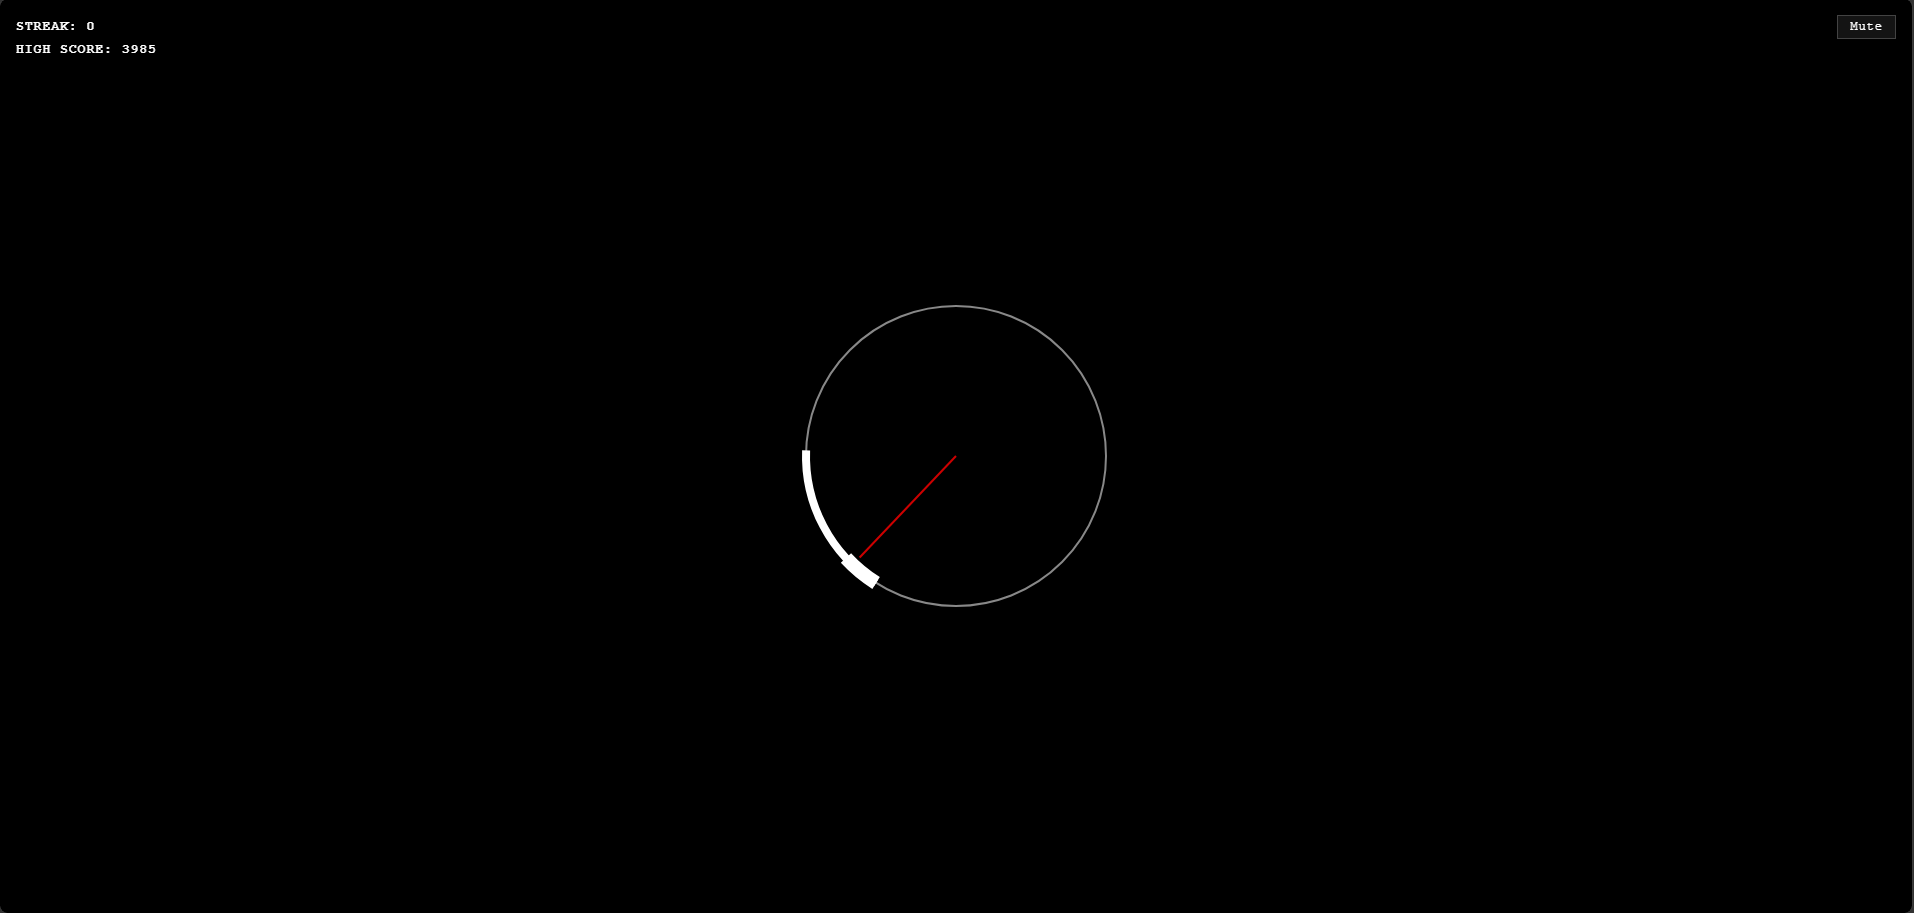
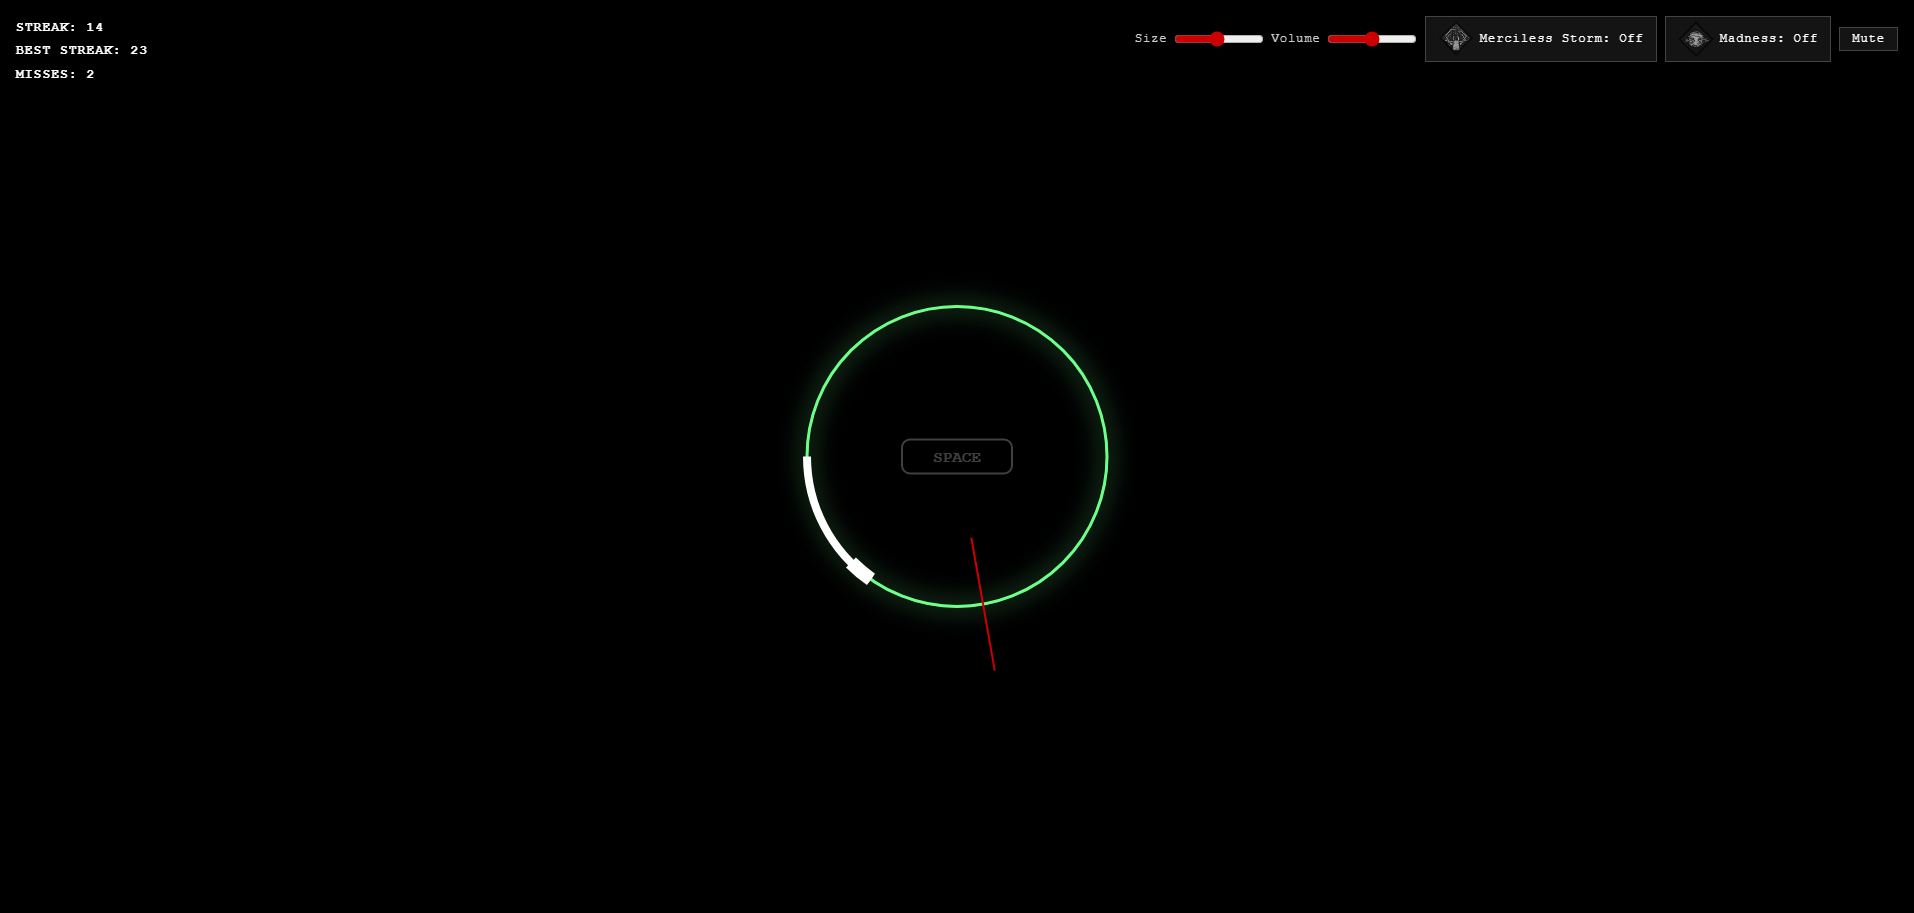
docs: shorten README, drop emojis, update screenshot

diff --git a/README.md b/README.md
@@ -1,142 +1,51 @@
 # DBD Skill Check Game
 
-A fast-paced, DBD-inspired skill check rhythm game built with vanilla HTML, CSS, and JavaScript. Test your reflexes by clicking at the perfect moment when the pointer aligns with the target zone!
+A Dead by Daylight-style skill check game built with vanilla HTML, CSS, and JavaScript. Hit `SPACE` when the pointer is inside the target zone.
 
 ![Game Screenshot](assets/screenshot.png)
 
-## 🎮 How to Play
+## How to Play
 
-1. **Press `SPACE`** to start a new game
-2. Wait for the **pointer** (red line) to rotate and enter the **white arc**
-3. Click `SPACE` when the pointer is inside the target zone:
-   - **Success Zone** (thicker arc): Great hit! +250 points
-   - **Good Zone** (standard arc): Good hit! +100 points
-4. Build your combo streak for multipliers (up to 5x)
-5. A miss resets your streak and is counted, but the game keeps going. If you miss 5 times in a row (you've probably walked away), the game pauses until you press `SPACE`
+1. Press `SPACE` to start.
+2. The red pointer starts at 12 o'clock and rotates clockwise. Press `SPACE` when it is inside the white arc.
+   - Great zone (the thick notch at the leading edge): +250 points
+   - Good zone (the rest of the arc): +100 points
+3. Consecutive hits build a streak and a score multiplier (up to 5x), and every 5 great hits the pointer speeds up.
+4. A miss resets your streak, but the game keeps going. After 5 misses in a row the game pauses until you press `SPACE`.
 
-### Controls
-| Key | Action |
-|-----|--------|
-| `SPACE` | Start the game, perform a skill check, or resume when paused |
-| `Size` slider | Make the circle smaller or bigger (remembered in your browser) |
-| `Volume` slider | Set the sound volume (remembered in your browser) |
-| Click `Merciless Storm` | Toggle Merciless Storm mode (off by default) |
-| Click `Madness` | Toggle Madness mode (off by default) |
-| Click `Mute` | Mute/Unmute audio |
+The ring flashes red, green, or glowing green after each check to show a miss, good, or great.
 
-### Modes (top-right toggles, remembered in your browser)
+## Controls
+
+| Control | Action |
+|---------|--------|
+| `SPACE` | Start, skill check, or resume when paused |
+| Size slider | Make the circle smaller or bigger |
+| Volume slider / Mute | Adjust or silence the sound |
+| Merciless Storm | Toggle the killer perk mode |
+| Madness | Toggle the Doctor mode |
+
+Slider and toggle settings are remembered in your browser, as is your best streak.
+
+## Modes
 
 Both are off by default and can be combined.
 
-- **Merciless Storm** (killer perk): the arc can appear anywhere, even right under the pointer, as a smaller hollow curved bar. Any hit inside it counts as a good hit.
-- **Madness** (Doctor): the skill check jumps to a new spot on the screen every check.
+- **Merciless Storm**: the arc can appear anywhere, even under the pointer, as a smaller hollow bar. Any hit counts as a good hit.
+- **Madness**: the skill check jumps to a new spot on the screen every time.
 
-## 🎯 Game Mechanics
+## Running It
 
-- **Combo System**: Each successful hit increases your combo multiplier
-- **Speed Scaling**: Great hits accelerate the rotation speed over time
-- **Best Streak**: Your longest run of hits is saved locally in your browser
-- **Ring Feedback**: After each check the ring turns red (miss), green (good) or glowing green (great) for about a second, then fades back
-- **Miss Counter**: Misses are tallied in the top-left; there is no game over
-- **Arc Zones**: Two distinct zones for different point values and bonus effects
-
-## 📁 Project Structure
-
-```
-gen-rush/
-├── index.html          # Main game page
-├── game.js             # Game logic and rendering
-├── style.css           # Styling and animations
-├── assets/
-│   ├── icons/          # Merciless Storm and Madness toggle icons
-│   └── sounds/         # Audio files for skill check feedback
-│       ├── dbd-check-start.mp3      # Check start sound
-│       ├── dbd-good-skill-check.mp3 # Good hit sound
-│       └── dbd-great-skill-check.mp3 # Great hit sound
-└── README.md           # This file
-```
-
-## 🛠 Tech Stack
-
-- **HTML5 Canvas** - 2D rendering and game loop
-- **Vanilla JavaScript (ES6+)** - No frameworks or dependencies
-- **CSS3** - Styles and animations
-- **Web Audio API** - Sound effects and audio management
-- **LocalStorage** - Best streak and settings persistence
-
-## 🚀 Getting Started
-
-Simply open `index.html` in a modern web browser. No build step required!
-
-### Development Setup (Optional)
-
-For local development with hot reloading:
+No build step. Open `index.html` in a browser, or serve the folder:
 
 ```bash
-# Install a simple HTTP server
-npm install -g serve
-
-# Serve the project
-npx serve . --port 3000
+npx serve .
 ```
 
-Then open `http://localhost:3000` in your browser.
+## Tuning
 
-## 🎵 Audio
+Game feel is controlled by the `CONFIG` object at the top of `game.js`: rotation speed, arc widths, miss pause limit, ring size limits, default volume, and so on.
 
-The game uses Web Audio API for sound effects:
+## Credits
 
-- **Check Start**: Plays when a new skill check begins
-- **Good Hit**: Plays on successful hits in the standard zone
-- **Great Hit**: Plays on perfect timing in the bonus zone
-- **Miss**: Synthesized audio (no file needed) - plays automatically on misses
-
-The mute button toggles all audio.
-
-## ⚙ Configuration
-
-Tune game behavior by editing `CONFIG` object in `game.js`:
-
-```javascript
-const CONFIG = {
-    rotationPeriod: 1200,        // ms for full rotation (~1.2s)
-    speedupRate: 0.05,           // 5% faster every speedup interval
-    successArcWidth: 55,         // degrees - the "good" zone
-    greatZoneWidth: 10,          // degrees - leading edge (bonus zone)
-    arcMinLead: 120,             // degrees - earliest arc start, clockwise from 12 o'clock
-    arcEndMargin: 20,            // degrees - arc must end this far before returning to 12 o'clock
-    stormZoneWidth: 35,          // degrees - Merciless Storm's smaller hollow zone
-    missPauseLimit: 5,           // consecutive misses before the game pauses (player is AFK)
-    defaultRadius: 150,          // px - ring radius until the size slider is moved
-    minRadius: 60,               // px - smallest ring the size slider allows
-    maxRadius: 250,              // px - largest ring the size slider allows
-    defaultVolume: 50,           // % - volume until the volume slider is moved (100% = full master gain)
-    soundPeakDb: -15,            // dBFS - every sound effect is peak-normalized to this level
-    madnessOffsetX: 3,           // Madness: max horizontal jump from screen center, in ring radii
-    madnessOffsetY: 1.5,         // Madness: max vertical jump from screen center, in ring radii
-    hintPlayingOpacity: 0.25,    // SPACE key hint opacity while a game is being played
-    ringFlashDuration: 1000,     // ms the ring stays tinted after a hit or miss, fading out at the end
-    ringFlashFade: 300,          // ms of that duration spent fading back to the normal ring
-    scoreGood: 100,
-    scoreGreat: 250,
-    maxMultiplier: 5,
-};
-```
-
-## 📊 Game States
-
-- **Idle**: Initial state - the `SPACE` key hint is shown at full opacity; press SPACE to start
-- **Active**: Pointer starts at 12 o'clock and rotates clockwise; a hit starts the next check immediately, and a pointer that passes the arc without input is a miss. The `SPACE` hint fades while you play
-- **Paused**: 5 misses in a row pause the game (press SPACE to resume)
-
-## 📄 License
-
-This project is open source. Feel free to use, modify, and distribute.
-
-## 🎨 Design Inspiration
-
-The game is inspired by DBD's (Dead by Daylight) skill checks.
-
-## 📝 Credits
-
-Built with pure vanilla JavaScript for maximum compatibility and minimal dependencies.
+Inspired by Dead by Daylight's skill checks. Open source: use, modify, and distribute freely.
